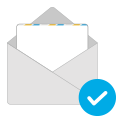
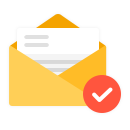
style(center.rpanel): ESM 이미지 교체
- 팀원 초대하기, 초대 이메일 발송 완료, 메시지 전송 유도, 파일/메시지/스타/멘션 결과 없을 때 이미지 교체

diff --git a/client/app/right/stars/stars.html b/client/app/right/stars/stars.html
@@ -6,7 +6,12 @@
         <div class="infinite-scroll-bottom-list">
           <div class="search-result-container" ng-if="tabs.all.isLoading || tabs.all.empty">
             <div class="search-result-summary-ing" ng-if="tabs.all.isLoading"><span translate>@search-in-progress</span></div>
-            <div class="search-result-summary-ing" ng-if="tabs.all.empty"><span translate>@star-all-empty</span></div>
+            <div class="search-result-summary-ing rpanel-list-empty" ng-if="tabs.all.empty">
+              <img class="rpanel-list-empty__img" src="assets/images/star-message-empty.png"/>
+              <div class="help-messages__message">
+                <span translate>@star-all-empty</span>
+              </div>
+            </div>
           </div>
           <div ng-repeat="item in tabs.all.list track by item.message.id">
             <message ng-if="item.message.contentType !== 'file'"  message-data="item" message-type="messageType"></message>
@@ -30,7 +35,12 @@
         <div class="infinite-scroll-bottom-list">
           <div class="search-result-container" ng-if="tabs.files.isLoading || tabs.files.empty">
             <div class="search-result-summary-ing" ng-if="tabs.files.isLoading"><span translate>@search-in-progress</span></div>
-            <div class="search-result-summary-ing" ng-if="tabs.files.empty"><span translate>@star-files-empty</span></div>
+            <div class="search-result-summary-ing" ng-if="tabs.files.empty">
+              <img class="star-empty__img" src="assets/images/star-file-empty.png"/>
+              <div class="help-messages__message">
+                <span translate>@star-files-empty</span>
+              </div>
+            </div>
           </div>
           <div ng-repeat="file in tabs.files.list track by file.message.id">
             <file file-data="file" file-type="fileType"></file>

diff --git a/client/app/right/mentions/mentions.html b/client/app/right/mentions/mentions.html
@@ -1,7 +1,12 @@
 <div class="rpanel-body mention-list" infinite-scroll-bottom="loadMore();">
   <div class="search-result-container" ng-if="isLoading || isMentionEmpty">
     <div class="search-result-summary-ing" ng-if="isLoading"><span translate>@search-in-progress</span></div>
-    <div class="search-result-summary-ing" ng-if="isMentionEmpty"><span translate>@mention-empty</span></div>
+    <div class="search-result-summary-ing rpanel-list" ng-if="isMentionEmpty">
+      <img class="rpanel-list-empty__img" src="assets/images/mention-empty.png"/>
+      <div class="help-messages__message">
+        <span translate>@mention-empty</span>
+      </div>
+    </div>
   </div>
   <div class="infinite-scroll-bottom-list">
     <message message-data="record" message-type="messageType" ng-repeat="record in records"></message>

diff --git a/client/app/right/search.messages/search.messages.css b/client/app/right/search.messages/search.messages.css
@@ -25,19 +25,24 @@
 }
 
 .rpanel-message-search  .no-search-input-container .icon-search {
-  font-size: 64px;
+  width: 65px;
 }
 .rpanel-alert-msg-container {
   text-align: center;
   margin-top: 70px;
-  color: #999;
+  margin-bottom: 15px;
+  padding: 0 30px 0 30px;
 }
 .rpanel-alert-msg-container__img {
   display: block;
   margin: auto;
+  margin-bottom: 15px;
 }
 .rpanel-alert-msg-container__text {
   margin-top: 16px;
+  font-size: 14px;
+  line-height: 22px;
+  color: #575757;
 }
 .rpanel-alert-msg-container .searchQuery {
   color: #333;

diff --git a/client/app/left/messages/messages.html b/client/app/left/messages/messages.html
@@ -18,7 +18,7 @@
     <!--    WHEN THERE IS NO ONE IN MESSAGE LIST    -->
     <div class="empty-message-list-container cursor_pointer" ng-if="messageList.length == 0"
          ng-click="openModal('memberList');">
-      <i class="empty-message-list__icon icon-chat"></i>
+      <img class="empty-message-list__img" src="../assets/images/center/help-dm.png"/>
       <div class="empty-message-list__new-message" translate>
         @common-start-new-message
       </div>

diff --git a/client/app/right/search.messages/search.messages.html b/client/app/right/search.messages/search.messages.html
@@ -58,7 +58,7 @@
     </div>
 
     <div class="rpanel-alert-msg-container no-search-input-container" ng-if="isSearchQueryEmpty" ng-click="setSearchInputFocus();">
-      <i class="icon-search"></i>
+      <img class="icon-search" src="assets/images/icon-search.png"/>
       <div class="rpanel-alert-msg-container__text">
         <span translate>@input-to-search</span>
       </div>

diff --git a/client/app/left/messages/messages.css b/client/app/left/messages/messages.css
@@ -8,8 +8,9 @@
 .empty-message-list-container:hover .empty-message-list__new-message {
   text-decoration: underline;
 }
-.empty-message-list__icon {
-  font-size: 28px;
+.empty-message-list__img {
+  width: 35px;
+  height: 35px;
   display: block;
   margin: 10px auto;
   opacity: 0.6;

diff --git a/client/app/right/right.css b/client/app/right/right.css
@@ -220,7 +220,12 @@
   color: #999999;
 }
 .search-result-container .search-result-summary-ing {
-  margin-top: 10px;
+  margin-top: 70px;
+  margin-left: -40px;
+  text-align: center;
+}
+.search-result-container .rpanel-list-empty__img {
+  margin-bottom: 15px;
 }
 
 .show {

diff --git a/client/app/modal/teams/team_invite/team.invite.css b/client/app/modal/teams/team_invite/team.invite.css
@@ -95,7 +95,6 @@
   margin-bottom:4px;
 }
 .invite-done > img {
-  margin-bottom:12px;
 }
 .invite-done > span {
   color:#333;
